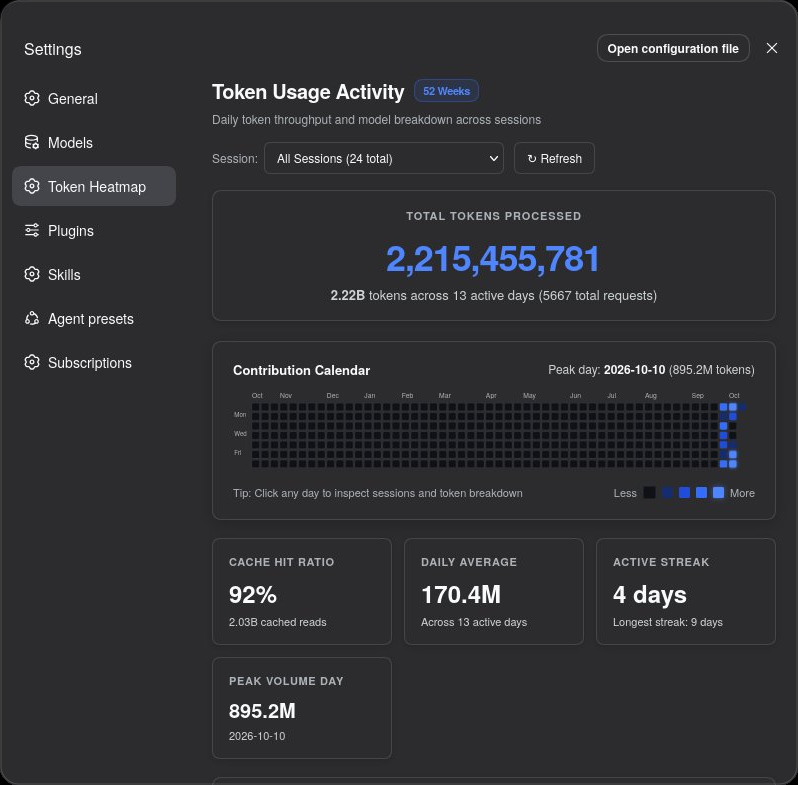
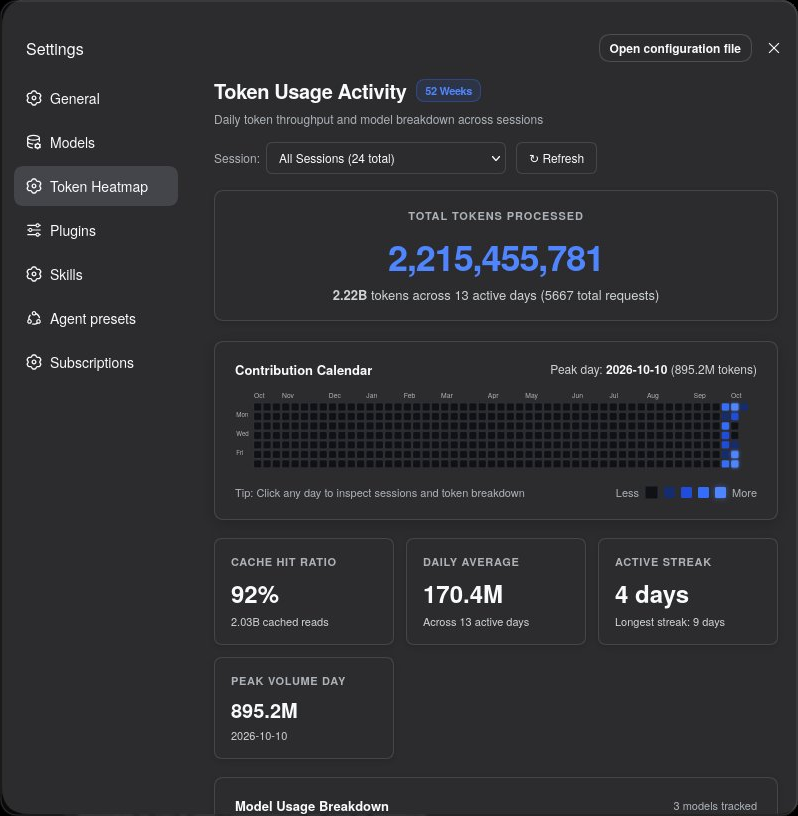
docs: move preview under installation, resize to compact width, uncrop model breakdown

diff --git a/README.md b/README.md
@@ -2,11 +2,6 @@
 
 > GitHub-style daily token usage heatmap, model analytics, and timeline trends for [DeepSeek Harness](https://github.com/deepseek-ai/dsh).
 
-<p align="center">
-  <img src="./assets/preview-overview.png" alt="Token Heatmap & Overview" width="49%" />
-  <img src="./assets/preview-trends.png" alt="Model Usage Breakdown & Trends" width="49%" />
-</p>
-
 ---
 
 ## Features
@@ -32,16 +27,23 @@ dsh plugin --profile web add dsh-token-heatmap
 
 *(To remove later: `dsh plugin --profile web remove dsh-token-heatmap`)*
 
----
-
 ### Manual Alternative (pnpm)
 
 ```bash
 cd ~/.dsh/profiles/web
 pnpm add dsh-token-heatmap
 ```
-
 Then add `"dsh-token-heatmap"` to `bundles` in `~/.dsh/profiles/web/package.json`.
+
+---
+
+## Preview
+
+<p align="center">
+  <img src="./assets/preview-overview.png" alt="Token Heatmap Overview" width="44%" />
+  &nbsp;
+  <img src="./assets/preview-trends.png" alt="Model Usage Breakdown & Trends" width="44%" />
+</p>
 
 ---
 
@@ -50,20 +52,6 @@ Then add `"dsh-token-heatmap"` to `bundles` in `~/.dsh/profiles/web/package.json
 1. Open the DeepSeek Harness Web GUI (`http://127.0.0.1:3080`).
 2. Go to **Settings** (gear icon at the bottom left) → **Token Heatmap**.
 3. Or during any session, click on the token stats pill at the bottom of the composer and tap **"View Token Usage Heatmap →"**.
-
----
-
-## Preview Screenshots
-
-### 1. Overview, Hero Total & Contribution Calendar
-<p align="center">
-  <img src="./assets/preview-overview.png" alt="DeepSeek Harness Token Heatmap Overview" width="85%" />
-</p>
-
-### 2. Model Breakdown & Timeline Trends
-<p align="center">
-  <img src="./assets/preview-trends.png" alt="DeepSeek Harness Model Analytics and Trends" width="85%" />
-</p>
 
 ---
 
